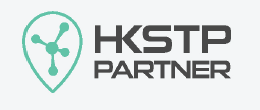
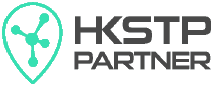
fix: follow the HKSTP partner lockup rules on the login header
Use the GearUp EduTech logo, keep the aquamarine HKSTP mark at least 100px wide, and leave a pin-width clear space between them.

diff --git a/src/components/main-page-banner-carousel.tsx b/src/components/main-page-banner-carousel.tsx
@@ -7,21 +7,31 @@ const MAIN_PAGE_BANNERS = [0, 1, 3, 4, 5, 6].map(
 );
 
 export function MainPagePartnerLogos() {
+  // HKSTP digital minimum is 100px wide. The exclusion zone equals the
+  // Innovation Pin width, about 28.6% of this aquamarine lockup.
+  const hkstpWidth = 120;
+  const clearSpace = Math.round(hkstpWidth * 0.286);
+  const logoHeight = Math.round(hkstpWidth * (86 / 213));
   return (
-    <div className="mb-4 flex items-center justify-between gap-6 rounded-2xl bg-white px-3 py-3 shadow-sm">
+    <div
+      className="mb-4 flex items-center justify-between bg-white"
+      style={{ gap: clearSpace, padding: clearSpace }}
+    >
       {/* eslint-disable-next-line @next/next/no-img-element */}
       <img
         src="/main/gearup-quiz-logo.webp"
-        alt="GearUp Quiz"
-        className="h-16 w-auto max-w-[48%] object-contain object-left"
+        alt="GearUp EduTech"
+        style={{ height: logoHeight, width: "auto" }}
+        className="max-w-[48%] object-contain object-left"
         draggable={false}
       />
-      {/* Official aquamarine HKSTP Partner lockup. Do not recolor or stretch. */}
+      {/* Aquamarine HKSTP Partner lockup. Proportions and artwork stay intact. */}
       {/* eslint-disable-next-line @next/next/no-img-element */}
       <img
         src="/main/hkstp-partner-aquamarine.png"
         alt="HKSTP Partner"
-        className="h-12 w-auto max-w-[48%] object-contain object-right"
+        style={{ width: hkstpWidth, height: "auto", minWidth: 100 }}
+        className="max-w-[48%] object-contain object-right"
         draggable={false}
       />
     </div>
